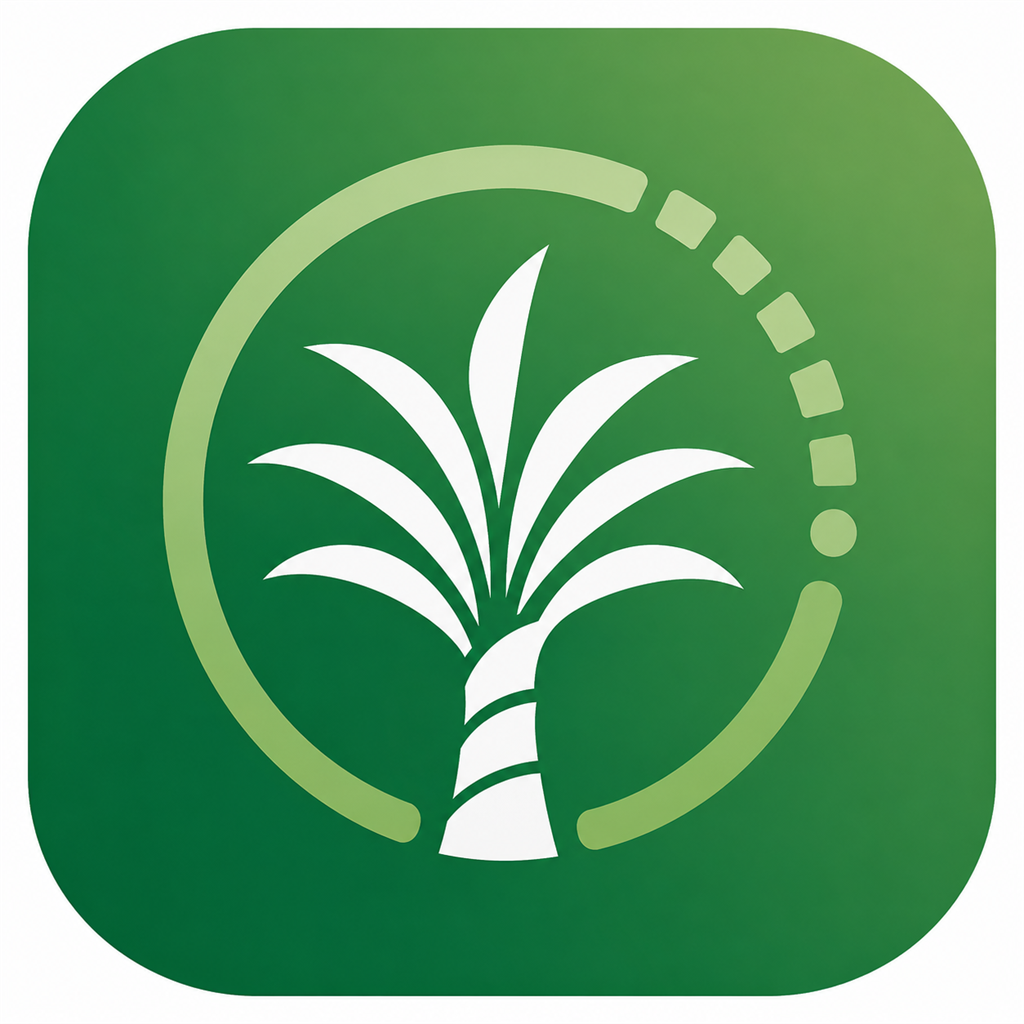
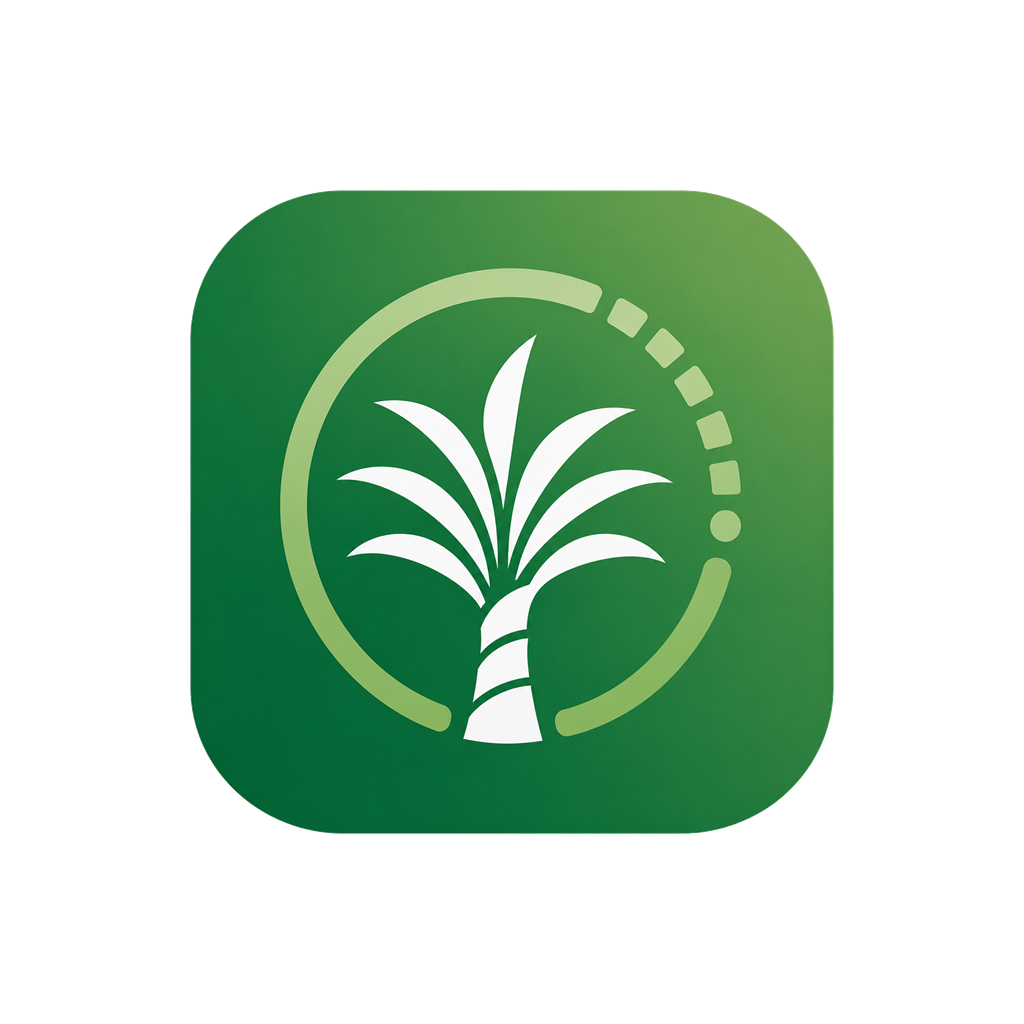
Ajusta icone e abertura de cargas 1.0.8

diff --git a/App.tsx b/App.tsx
@@ -36,6 +36,7 @@ import {
   Text,
   TextInput,
   View,
+  type GestureResponderEvent,
 } from 'react-native';
 import {
   AlertTriangle,
@@ -314,12 +315,14 @@ function IconButton({
   onPress,
   tone = 'neutral',
   disabled = false,
+  stopPropagation = false,
 }: {
   label: string;
   icon: IconComponent;
-  onPress: () => void;
+  onPress: (event: GestureResponderEvent) => void;
   tone?: 'neutral' | 'primary' | 'danger';
   disabled?: boolean;
+  stopPropagation?: boolean;
 }) {
   const color =
     tone === 'danger' ? colors.danger : tone === 'primary' ? colors.primary : colors.ink;
@@ -329,7 +332,12 @@ function IconButton({
       accessibilityLabel={label}
       accessibilityRole="button"
       disabled={disabled}
-      onPress={onPress}
+      onPress={(event) => {
+        if (stopPropagation) {
+          event.stopPropagation();
+        }
+        onPress(event);
+      }}
       style={({ pressed }) => [
         styles.iconButton,
         {
@@ -464,13 +472,6 @@ function HomeScreen({
             <Text style={styles.kicker}>Contador de Pupunha</Text>
             <Text style={styles.title}>Cargas</Text>
           </View>
-          <View style={styles.homeLogoBadge}>
-            <RNImage
-              accessibilityLabel="Logo do Contador Pupunha"
-              source={require('./assets/icon.png')}
-              style={styles.homeLogo}
-            />
-          </View>
         </View>
 
         <View style={styles.section}>
@@ -487,15 +488,19 @@ function HomeScreen({
               const average = averagePerPallet(load.total_count, load.pallet_count);
 
               return (
-                <View key={load.id} style={[styles.loadRow, styles.loadRowStack]}>
+                <Pressable
+                  accessibilityLabel={`Abrir ${load.name}`}
+                  accessibilityRole="button"
+                  key={load.id}
+                  onPress={() => onOpen(load.id)}
+                  style={({ pressed }) => [
+                    styles.loadRow,
+                    styles.loadRowStack,
+                    pressed && styles.loadRowPressed,
+                  ]}
+                >
                   <View style={styles.loadRowHeader}>
-                    <Pressable
-                      onPress={() => onOpen(load.id)}
-                      style={({ pressed }) => [
-                        styles.loadOpenArea,
-                        { opacity: pressed ? 0.76 : 1 },
-                      ]}
-                    >
+                    <View style={styles.loadOpenArea}>
                       <View style={styles.loadRowIcon}>
                         <Truck color={colors.primary} size={20} strokeWidth={2.2} />
                       </View>
@@ -505,26 +510,26 @@ function HomeScreen({
                         </Text>
                         <Text style={styles.loadRowMeta}>{formatDateTime(load.created_at)}</Text>
                       </View>
-                    </Pressable>
+                    </View>
 
                     <View style={styles.rowActions}>
-                      <IconButton icon={Pencil} label={`Editar ${load.name}`} onPress={() => onEdit(load)} />
+                      <IconButton
+                        icon={Pencil}
+                        label={`Editar ${load.name}`}
+                        onPress={() => onEdit(load)}
+                        stopPropagation
+                      />
                       <IconButton
                         icon={Trash2}
                         label={`Excluir ${load.name}`}
                         onPress={() => onDelete(load)}
+                        stopPropagation
                         tone="danger"
                       />
                     </View>
                   </View>
 
-                  <Pressable
-                    onPress={() => onOpen(load.id)}
-                    style={({ pressed }) => [
-                      styles.loadMetricsRow,
-                      { opacity: pressed ? 0.76 : 1 },
-                    ]}
-                  >
+                  <View style={styles.loadMetricsRow}>
                     <View style={styles.loadMetric}>
                       <Text style={styles.loadMetricValue}>{load.pallet_count}</Text>
                       <Text style={styles.loadMetricLabel}>paletes</Text>
@@ -537,8 +542,8 @@ function HomeScreen({
                       <Text style={styles.loadMetricValue}>{average}</Text>
                       <Text style={styles.loadMetricLabel}>média/palete</Text>
                     </View>
-                  </Pressable>
-                </View>
+                  </View>
+                </Pressable>
               );
             })
           )}
@@ -1508,6 +1513,8 @@ export default function App() {
     const [load, loadPallets] = await Promise.all([getLoad(loadId), listPallets(loadId)]);
     setCurrentLoad(load ?? null);
     setPallets(loadPallets);
+
+    return load ?? null;
   }, []);
 
   const refreshPallet = useCallback(async (loadId: number, palletId: number) => {
@@ -1560,6 +1567,29 @@ export default function App() {
     };
   }, [goBack]);
 
+  const handleOpenLoad = useCallback(
+    async (loadId: number) => {
+      if (screen.name === 'load' && screen.loadId === loadId) {
+        return;
+      }
+
+      try {
+        const load = await refreshLoad(loadId);
+
+        if (!load) {
+          Alert.alert('Carga não encontrada', 'Atualize a lista e tente novamente.');
+          await refreshHome();
+          return;
+        }
+
+        navigateTo({ name: 'load', loadId });
+      } catch (error) {
+        Alert.alert('Erro ao abrir carga', errorMessage(error));
+      }
+    },
+    [navigateTo, refreshHome, refreshLoad, screen],
+  );
+
   const handleSaveLoad = async (name: string, note: string | null) => {
     if (loadSubmittingRef.current) {
       return;
@@ -1578,6 +1608,7 @@ export default function App() {
 
       const loadId = await createLoad(name, note);
       setLoadModal({ mode: 'closed' });
+      await refreshLoad(loadId);
       navigateTo({ name: 'load', loadId });
     } catch (error) {
       Alert.alert('Erro ao salvar', errorMessage(error));
@@ -2033,7 +2064,7 @@ export default function App() {
           onCreate={() => setLoadModal({ mode: 'create' })}
           onDelete={(load) => handleDeleteLoad(load)}
           onEdit={(load) => setLoadModal({ mode: 'edit', load })}
-          onOpen={(loadId) => navigateTo({ name: 'load', loadId })}
+          onOpen={handleOpenLoad}
         />
       );
     } else if (screen.name === 'load' && currentLoad) {
@@ -2392,20 +2423,6 @@ const styles = StyleSheet.create({
   heroText: {
     flex: 1,
   },
-  homeLogo: {
-    borderRadius: radius.sm,
-    height: '100%',
-    width: '100%',
-  },
-  homeLogoBadge: {
-    backgroundColor: colors.surface,
-    borderColor: colors.border,
-    borderRadius: radius.md,
-    borderWidth: 1,
-    height: 72,
-    padding: 4,
-    width: 72,
-  },
   iconButton: {
     alignItems: 'center',
     backgroundColor: colors.surface,
@@ -2497,6 +2514,9 @@ const styles = StyleSheet.create({
     gap: spacing.md,
     minHeight: 76,
     padding: spacing.md,
+  },
+  loadRowPressed: {
+    opacity: 0.76,
   },
   loadOpenArea: {
     alignItems: 'center',